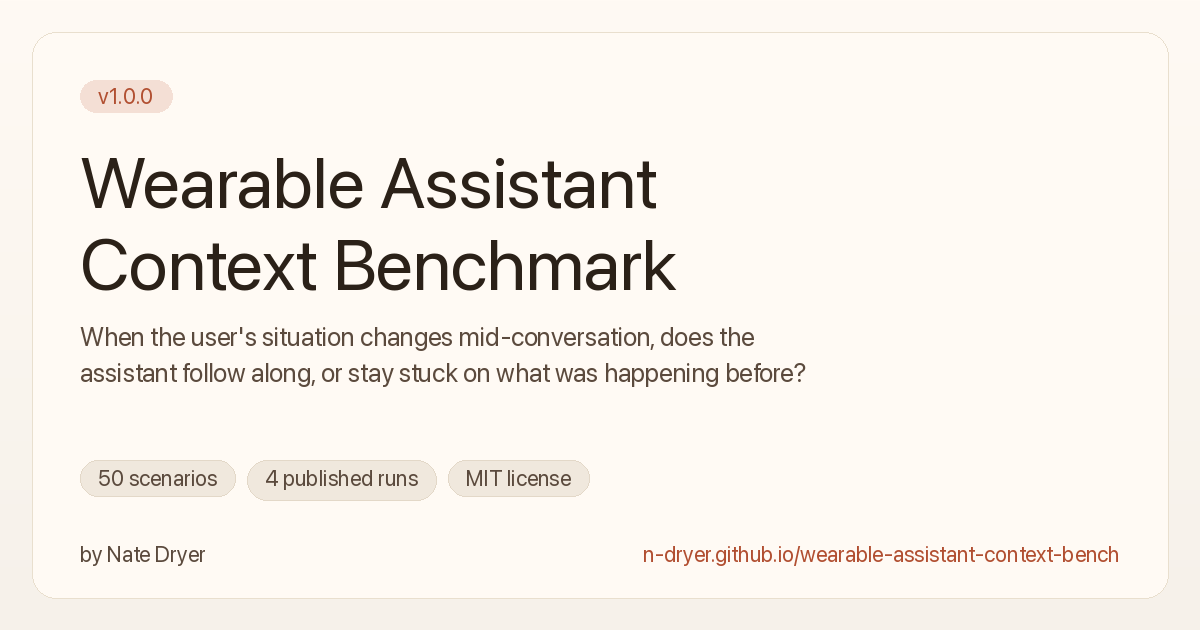
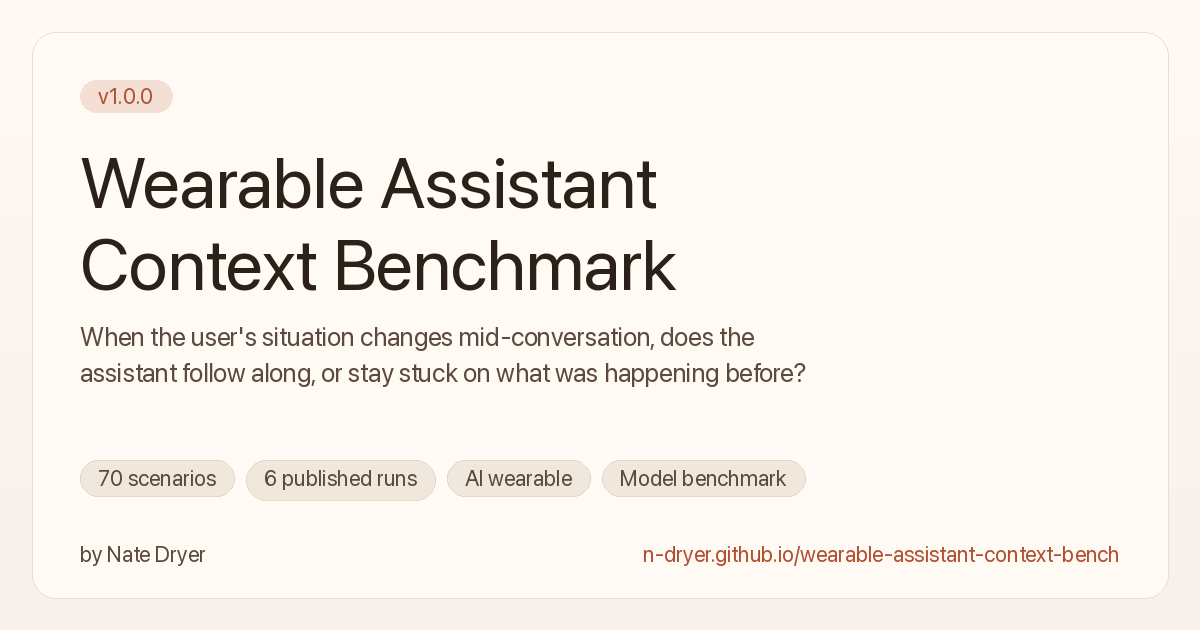
docs(og): regenerate social card with new tags (AI wearable, Model benchmark) and updated counts

Changed region(s): [[0.2158, 0.7238, 0.6783, 0.7841], [0.0617, 0.754, 0.185, 0.7841]]

diff --git a/docs/index.html b/docs/index.html
@@ -13,7 +13,7 @@
         <meta property="og:image" content="https://n-dryer.github.io/wearable-assistant-context-bench/og-image.png">
         <meta property="og:image:width" content="1200">
         <meta property="og:image:height" content="630">
-        <meta property="og:image:alt" content="Wearable Assistant Context Benchmark v1.0.0. 70 scenarios, six published runs, MIT license.">
+        <meta property="og:image:alt" content="Wearable Assistant Context Benchmark v1.0.0. 70 scenarios, six published runs. AI wearable. Model benchmark.">
 
         <meta name="twitter:card" content="summary_large_image">
         <meta name="twitter:title" content="Wearable Assistant Context Benchmark">

diff --git a/docs/og_image.py b/docs/og_image.py
@@ -187,9 +187,10 @@ def render() -> None:
     # they don't fit on one row (they should).
     badge_font = _font(22)
     badges = [
-        "50 scenarios",
-        "4 published runs",
-        "MIT license",
+        "70 scenarios",
+        "6 published runs",
+        "AI wearable",
+        "Model benchmark",
     ]
     gap = 12
     cursor_x = 80
